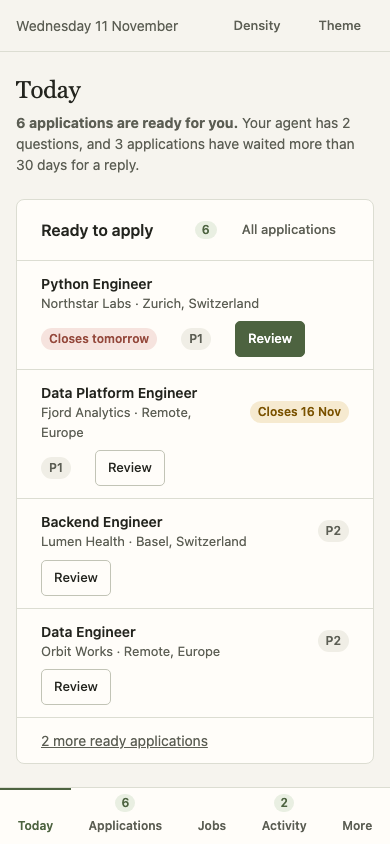
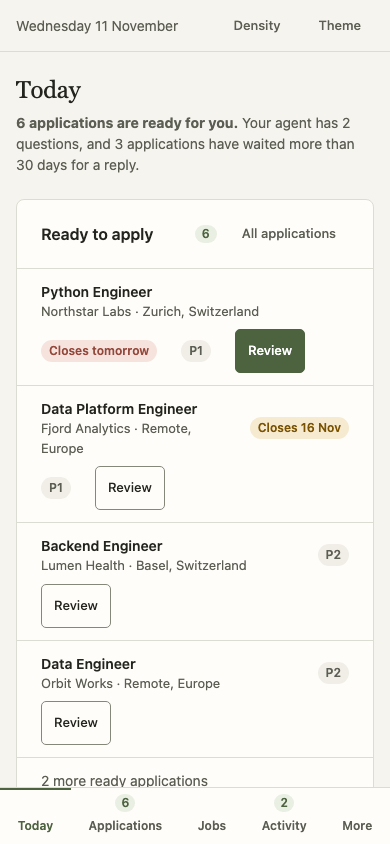
Add the dashboard design: information architecture, design system and budgets
docs/developer/dashboard-design.md describes the navigation and what each
screen replaces, the tokens and components with their contrast, the
accessibility and performance budgets, and the implementation stages for
the new dashboard. The prototypes gain a control border that reaches 3:1,
44px touch targets on narrow screens and a monospace fallback.

Refs #150

diff --git a/docs/developer/prototypes/prototype.css b/docs/developer/prototypes/prototype.css
@@ -9,6 +9,8 @@
   --card: #fffdf9;
   --line: #dcddd2;
   --line-strong: #c2c4b6;
+  /* Boundary of buttons and inputs: at least 3:1 on every surface */
+  --control: #85877a;
   --hover: #f0eee6;
 
   /* Text: ink for content, ink-2 for secondary text, ink-3 for captions on surface or card */
@@ -44,7 +46,7 @@
   --t-2xl: 1.75rem;
   --sans: Inter, -apple-system, BlinkMacSystemFont, "Segoe UI", sans-serif;
   --serif: Georgia, "Times New Roman", serif;
-  --mono: ui-monospace, SFMono-Regular, Consolas, monospace;
+  --mono: ui-monospace, SFMono-Regular, Menlo, Consolas, monospace;
 
   /* Spacing: multiples of 4px */
   --s1: 4px;
@@ -66,6 +68,7 @@
   --card: #292b24;
   --line: #3d4034;
   --line-strong: #555948;
+  --control: #858972;
   --hover: #30332a;
   --ink: #ecece0;
   --ink-2: #b9bcab;
@@ -275,7 +278,7 @@ textarea {
   gap: var(--s2);
   min-height: 36px;
   padding: 0 var(--s4);
-  border: 1px solid var(--line-strong);
+  border: 1px solid var(--control);
   border-radius: var(--radius-sm);
   background: var(--card);
   font-weight: 500;
@@ -455,7 +458,7 @@ textarea {
   width: 100%;
   min-height: 36px;
   padding: var(--s2) var(--s3);
-  border: 1px solid var(--line-strong);
+  border: 1px solid var(--control);
   border-radius: var(--radius-sm);
   background: var(--card);
 }
@@ -687,8 +690,11 @@ textarea {
   .btn {
     min-height: 44px;
   }
-  .btn.sm {
-    min-height: 36px;
+  /* Every control is a 44px touch target on narrow screens. */
+  .btn.sm,
+  .tabs [role="tab"],
+  .segmented button {
+    min-height: 44px;
   }
   /* Bottom bar: labels sit on one baseline, the count badge above its label. */
   .tabbar {
@@ -840,7 +846,7 @@ input[type="checkbox"]:not(.switch) {
   gap: 6px;
   min-height: 32px;
   padding: 0 var(--s3);
-  border: 1px solid var(--line-strong);
+  border: 1px solid var(--control);
   border-radius: 999px;
   background: var(--card);
   color: var(--ink-2);

diff --git a/docs/developer/dashboard-design.md b/docs/developer/dashboard-design.md
@@ -1,0 +1,195 @@
+# Dashboard design
+
+Status: **proposed**, waiting for the maintainer's approval (owner checkpoint 2,
+issue #150). It designs the dashboard for the product accepted in the
+[redesign proposal](proposal-redesign.md); issue #135 implements it.
+
+The design has three parts: the information architecture, a design system, and
+static [prototypes](prototypes/index.html) of every main screen. Open
+`docs/developer/prototypes/index.html` in a browser: the prototypes are plain HTML
+with synthetic data, work offline, and have working tabs, themes and density.
+
+## Principles
+
+1. **Start from the owner's three questions.** What do I apply to, what did the
+   agent do, what needs my decision. The first screen answers all three.
+2. **The agent is visible.** Every change shows who made it. Runs and questions are
+   places, not notes.
+3. **One screen per job to be done.** Reviewing an application shows the posting,
+   the CV and the letter together, with the actions that end the task.
+4. **Structured data has a structured editor.** No JSON text boxes.
+5. **Calm and dense.** Warm neutral surfaces, one accent, colour only for meaning,
+   text always beside colour. Lists first, cards only for grouping.
+
+## Information architecture
+
+Navigation has three groups. On narrow screens a bottom bar holds Today,
+Applications, Jobs and Activity; the rest is under More.
+
+| Group | Screen | Purpose | Replaces |
+|---|---|---|---|
+| Work | **Today** | Ready to apply, needs your decision, since your last visit, waiting for a reply | Overview |
+| Work | **Applications** | The pipeline with Ready as a stage; list and board; **Insights** tab | Applications, Overview funnel |
+| Work | **Application review** | Posting, CV and letter side by side; download, mark applied or close; answers, requirements, timeline, inputs | The application drawer and its tabs |
+| Work | **Jobs** | To review, Shortlist, Dismissed, All; signals; duplicates inside the job | Inbox, Shortlist, Possible duplicates |
+| Work | **Activity** | Questions, runs with their reports, the timeline of all changes | New |
+| Library | **Career** | Profile and the Career record with typed claim fields | Career |
+| Library | **Policy** | Decision rules, eligibility, writing rules, facts | Profile metadata JSON, parts of Career |
+| Library | **Templates** | Sources, typed rules, assets, preview | Templates |
+| System | **Collection** | Sources, yield, runs and tasks, providers | Collection, tasks in Settings |
+| System | **Settings** | Agent access and tokens, skills, backup, workspace | Settings |
+| | **Onboarding** | First run: connect an agent, watch the record being built | New |
+
+What changes for someone who knows 0.15:
+
+- **Overview disappears.** Its funnel becomes the pipeline strip on Today and the
+  Insights tab.
+- **Inbox and Shortlist merge into Jobs.** In an agent-operated workspace the
+  review queue belongs to the agent, and the page says so.
+- **The application drawer becomes a page:** one review screen plus four
+  secondary tabs (answers, requirements, timeline, inputs).
+- **Ready is a stage** you can see and count, not a filter.
+- **Possible duplicates** is no longer a separate list of hundreds of groups. A
+  likely duplicate is a signal on the job, with the candidate beside it.
+- **Tasks move** from Settings to Collection, next to the runs that created them.
+- **Policy is new**, and Profile metadata is no longer edited as JSON.
+
+## Screens
+
+| Screen | Prototype | What to look at |
+|---|---|---|
+| Today | [today.html](prototypes/today.html) | The summary sentence; one primary action; questions answered in place |
+| Application review | [review.html](prototypes/review.html) | Three panes; "before you send" banner; who wrote each revision; one pane at a time on a phone with a fixed action bar |
+| Applications | [applications.html](prototypes/applications.html) | Stage chips; recording an employer response; Insights with a small-sample state |
+| Jobs | [jobs.html](prototypes/jobs.html) | Signals as tags; a rule's dismissals with Restore; duplicate decision inside the job |
+| Activity | [activity.html](prototypes/activity.html) | A run report; an interrupted run; questions tied to their subject |
+| Career | [career.html](prototypes/career.html) | Typed claim fields; key/value editor for remaining metadata |
+| Policy | [policy.html](prototypes/policy.html) | Statement lists; a rule that acts on a signal; staleness per section |
+| Templates | [templates.html](prototypes/templates.html) | Typed limits and rule statements |
+| Collection | [collection.html](prototypes/collection.html) | Yield per source |
+| Settings | [settings.html](prototypes/settings.html) | Token kinds; a readable skill with local notes |
+| Onboarding | [onboarding.html](prototypes/onboarding.html) | The agent's progress as a checklist |
+
+Screenshots at 1440×1000 and 390×844 are in [prototypes/screens](prototypes/screens).
+Regenerate them with `node docs/developer/prototypes/screenshots.mjs`; the script
+also fails on a script error or horizontal overflow at five widths.
+
+![Today](prototypes/screens/today-desktop-light.png)
+
+![Application review](prototypes/screens/review-desktop-light.png)
+
+## Design system
+
+The tokens and components are in [prototypes/prototype.css](prototypes/prototype.css).
+#135 moves them into the dashboard unchanged.
+
+### Colour
+
+Semantic tokens, with a light and a dark value each. Text pairs reach WCAG AA
+(4.5:1) on every surface they are used on; the lowest ratios are listed.
+
+| Token | Use | Light | Dark | Lowest contrast (light / dark) |
+|---|---|---|---|---|
+| `--bg`, `--surface`, `--card` | Shell, page, raised content | `#ebe8e0`, `#f6f4ee`, `#fffdf9` | `#1a1c17`, `#21231d`, `#292b24` | |
+| `--ink` | Content | `#23241e` | `#ecece0` | 12.8 / 12.0 |
+| `--ink-2` | Secondary text | `#5c5e54` | `#b9bcab` | 5.4 / 7.4 |
+| `--ink-3` | Captions on surface or card | `#696b60` | `#9da18f` | 4.9 / 5.4 |
+| `--accent` | Primary action, selection | `#4d6340` | `#b9cfa3` | 5.4 / 6.5 |
+| `--ready` | Ready, approved, finished | `#3a6335` | `#a9d19b` | 5.7 / 7.1 |
+| `--attention` | Deadline near, interrupted, empty | `#7a5200` | `#e6c27a` | 5.7 / 7.0 |
+| `--danger` | Blocking, overdue, destructive | `#94483b` | `#e0a79a` | 5.2 / 6.0 |
+| `--info` | Advice before an action | `#3d5a73` | `#a9c4dc` | 5.9 / 6.8 |
+| `--agent` | Anything the agent did | `#5b4b8a` | `#c3b6ea` | 6.1 / 6.7 |
+| `--control` | Border of buttons and inputs (needs 3:1) | `#85877a` | `#858972` | 3.1 / 3.0 |
+
+0.15 fails this target in the light theme: secondary text is 4.0:1 on the page and
+caption text 2.5:1. Caption text (`--ink-3`) is not used on soft backgrounds;
+secondary text is used there.
+
+Rules: one accent; colour never carries meaning alone (a tag always has text);
+the agent colour is used only for attribution.
+
+### Type, space and density
+
+- **Type:** system sans for interface text, Georgia for page titles and large
+  numbers, system monospace for source. Six sizes: 12, 13, 14 (body), 16, 20, 28 px.
+  No font is downloaded: the dashboard works offline.
+- **Space:** multiples of 4 px (4, 8, 12, 16, 24, 32, 48). Radius 8 px for cards,
+  5 px for controls.
+- **Density:** comfortable by default (44 px rows) and compact (36 px), chosen by
+  the owner and remembered. Touch targets stay at least 44 px on narrow screens.
+- **Layout:** one breakpoint at 860 px. Below it the sidebar becomes the bottom
+  bar, columns stack, and side-by-side panes become a switch.
+
+### Components
+
+Button (primary, default, quiet, danger; two sizes), tag, count, card, list row,
+table, tabs, segmented switch, field, switch, banner, actor chip, question,
+statement list (policy items, rules, requirements), key/value editor, pipeline
+strip, stat and rate bar, paper preview, split view with a detail panel, stepper,
+fixed action bar, dialog, toast, empty and error states.
+
+Each component is built once in #135 with its states (default, hover, focus,
+disabled, loading, error) and its keyboard behaviour, and no page file exceeds
+about 400 lines.
+
+### Words
+
+Short, concrete and direct: "6 applications are ready for you", not "Readiness
+overview". Buttons name the result ("Mark applied", "Close 3 as no reply"). The
+agent's text is shown as the agent's, with its name. Stages keep their names;
+"Draft" is called Preparing, as today.
+
+## Budgets
+
+**Accessibility: WCAG 2.2 AA.**
+
+- Automated checks (axe) on every screen, in both themes and at both widths, with
+  no serious or critical finding. Run in CI with the browser tests.
+- Keyboard: every action reachable and operable; focus visible; dialogs and the
+  mobile navigation contain focus. The review flow has a keyboard-only test.
+- A unit test asserts the contrast of every token pair in the table above.
+
+**Performance**, measured in CI on a synthetic workspace of 5,000 jobs and 500
+applications:
+
+| Budget | Target | 0.15.2 |
+|---|---|---|
+| Applications list, 200 rows, time to interactive after navigation | under 300 ms | not measured |
+| JavaScript for the first screen, compressed | at most 110 kB | 126 kB (one bundle, 440 kB raw) |
+| Any later screen's own JavaScript, compressed | at most 40 kB | part of the one bundle |
+| Stylesheet, compressed | at most 15 kB | 12.4 kB |
+| Long lists | virtualised above 100 rows | paginated |
+
+The issue quoted 385 kB for the current bundle; it is 440 kB today. The budget is
+set on compressed size per screen, with screens loaded on demand.
+
+## Implementation stages for #135
+
+Each stage ships on its own; old and new screens coexist until stage 7. Every
+stage has browser tests on Chromium and WebKit at both widths, regenerated
+documentation screenshots and a regenerated parity matrix.
+
+| Stage | Content | Needs |
+|---|---|---|
+| 1. Foundation | Tokens and components, the new navigation around the existing pages, screens loaded on demand, accessibility checks and budgets in CI | |
+| 2. Today and Activity | Home screen; questions, runs and timeline | #149, #160 |
+| 3. Applications | Pipeline with Ready; the review-and-apply page; employer responses and Insights when available | #160; #151 for Insights |
+| 4. Jobs | Triage tabs, bulk actions, duplicate decision inside the job; signals when available | #145, #166 for signals |
+| 5. Library | Career with typed claim fields and the key/value editor; Policy; Templates with typed rules | #163 |
+| 6. System | Collection with yield and tasks; Settings with token kinds and readable skills | #161, #166, #168 |
+| 7. Onboarding and removal | First-run flow; the old pages and stylesheet are deleted; the parity matrix has no gap | #136 follows |
+
+A stage whose backend issue is not ready ships with what exists and gains the rest
+when that issue lands; the table says which parts those are.
+
+## Not decided here
+
+- Charts beyond simple rate bars. Insights starts with tables and bars.
+- Figures the prototypes had to invent: the number of sent applications below
+  which a rate is withheld (5 in the prototype) and the restore limit as a share of
+  free space. The backend issues decide them.
+- Tables that become stacked blocks on narrow screens must keep their meaning for
+  screen readers; #135 decides between ARIA roles and a list.
+- A command palette and keyboard shortcuts beyond standard navigation.
+- Notifications outside the dashboard (email, push).

diff --git a/docs/developer/architecture.md b/docs/developer/architecture.md
@@ -145,3 +145,6 @@ and canonical filter metadata, and test failed/empty/malformed responses. The
 its pinned upstream source and local transport changes.
 
 Use the focused checks and manual workflow guidance in [Contributing](../../CONTRIBUTING.md).
+
+The accepted product direction is in the [redesign proposal](proposal-redesign.md);
+the dashboard design and its static prototypes are in [dashboard design](dashboard-design.md).
